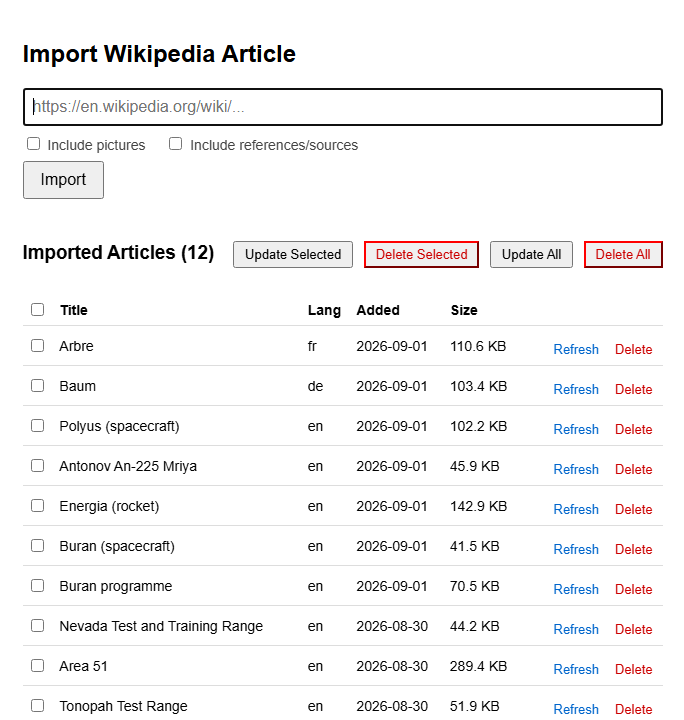
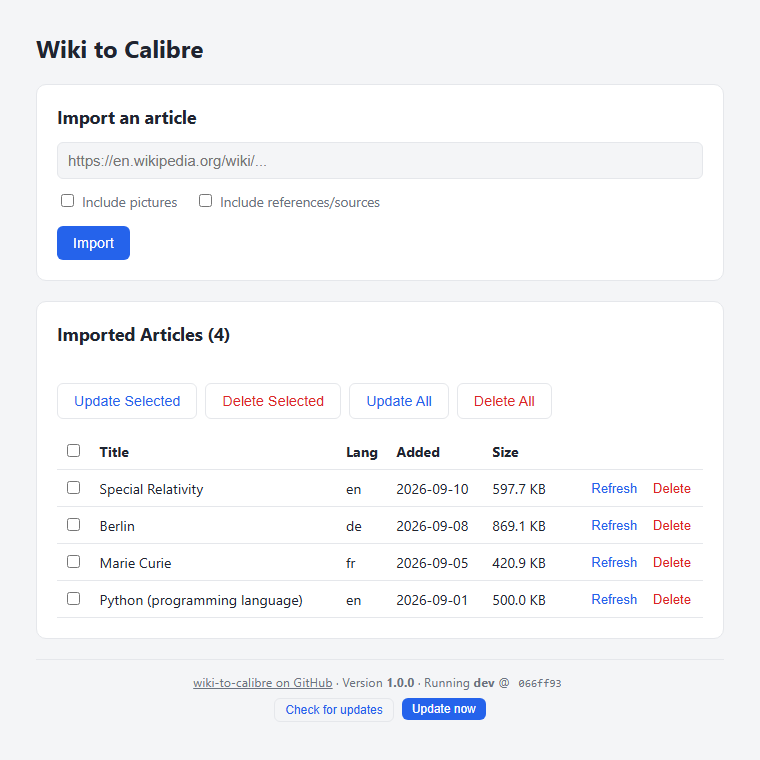
Polish About footer and update the README screenshot
- Drop the commit-message line from the About footer -- showing the raw
  git subject to anyone on the LAN was more than intended, version +
  branch + short hash is enough.
- Center the footer's text and buttons.
- Make the footer stick to the bottom of the viewport via flexbox when
  the page content is shorter than the screen, instead of trailing right
  after the catalog card with a lot of empty space below it. Still flows
  normally at the end of a long catalog.
- Refresh screenshot.png to match the current card layout and footer.

diff --git a/import_wiki.py b/import_wiki.py
@@ -502,13 +502,12 @@ def _read_version_file():
 def _get_app_version():
     version = _read_version_file()
     if not os.path.isdir(os.path.join(APP_DIR, ".git")):
-        return {"version": version, "branch": None, "commit": None, "message": ""}
+        return {"version": version, "branch": None, "commit": None}
     ok, commit = _run_git(["rev-parse", "--short", "HEAD"])
     if not ok:
-        return {"version": version, "branch": None, "commit": None, "message": ""}
+        return {"version": version, "branch": None, "commit": None}
     _, branch = _run_git(["rev-parse", "--abbrev-ref", "HEAD"])
-    _, message = _run_git(["log", "-1", "--pretty=%s"])
-    return {"version": version, "branch": branch.strip(), "commit": commit.strip(), "message": message.strip()}
+    return {"version": version, "branch": branch.strip(), "commit": commit.strip()}
 
 
 # Computed once at process start -- there's no reloader here, "Update now"
@@ -620,18 +619,23 @@ body {{
   background: var(--bg);
   color: var(--text);
   margin: 0;
+  min-height: 100vh;
+  display: flex;
 }}
-.wrap {{ max-width: 720px; margin: 0 auto; padding: 32px 16px 64px; }}
+.wrap {{
+  max-width: 720px; width: 100%; margin: 0 auto; padding: 32px 16px 64px;
+  display: flex; flex-direction: column; flex: 1;
+}}
 h1 {{ font-size: 1.5rem; margin: 0 0 20px; }}
 h2 {{ font-size: 1.1rem; margin: 0 0 14px; }}
 .card {{ background: var(--card); border: 1px solid var(--border); border-radius: 10px; padding: 20px; margin-bottom: 20px; }}
 .muted {{ color: var(--muted); font-size: 0.85rem; }}
-.about {{ margin-top: 8px; padding-top: 14px; border-top: 1px solid var(--border); font-size: 0.78rem; color: var(--muted); }}
+.about {{ margin-top: auto; padding-top: 14px; border-top: 1px solid var(--border); font-size: 0.78rem; color: var(--muted); text-align: center; }}
 .about p {{ margin: 0; }}
 .about a {{ color: var(--muted); }}
 .about code {{ font-size: 0.9em; }}
 .about .msg {{ font-size: 0.78rem; padding: 6px 10px; margin-top: 8px; }}
-.about .btn-row {{ margin-top: 8px; }}
+.about .btn-row {{ margin-top: 8px; justify-content: center; }}
 .about .btn {{ padding: 4px 10px; font-size: 0.75rem; }}
 input[type=url] {{
   width: 100%; padding: 9px 10px; font-size: 15px;
@@ -747,10 +751,9 @@ def render_about(about_message=""):
     version_line = f"Version <strong>{html.escape(v['version'])}</strong>" if v["version"] else ""
     if v["commit"]:
         sep = " &middot; " if version_line else ""
-        subject = f" &mdash; {html.escape(v['message'])}" if v["message"] else ""
         version_line += (
             f"{sep}Running <strong>{html.escape(v['branch'])}</strong> "
-            f"@ <code>{html.escape(v['commit'])}</code>{subject}"
+            f"@ <code>{html.escape(v['commit'])}</code>"
         )
     elif not v["version"]:
         version_line = "Not installed from a git checkout &mdash; updates aren't available here."

diff --git a/README.md b/README.md
@@ -14,7 +14,7 @@ point `LIBRARY` at the same library folder CWA uses and imported articles show
 up there immediately, with CWA's own auto-conversion/metadata features layered
 on top.
 
-![Screenshot of the catalog view, showing the import form and a list of imported articles with per-article and bulk actions](screenshot.png)
+![Screenshot of the app, showing the import form, a catalog of imported articles with per-article and bulk actions, and the About footer with version info and update controls](screenshot.png)
 
 ## Features
 
